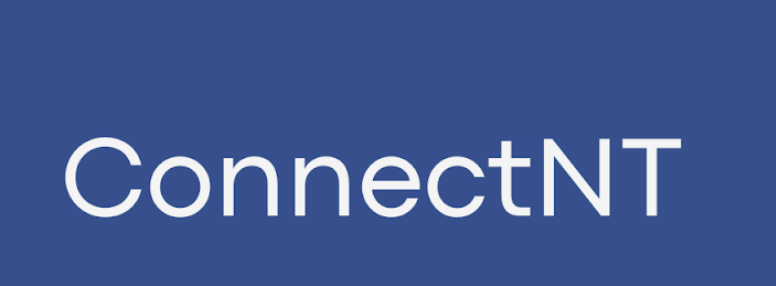
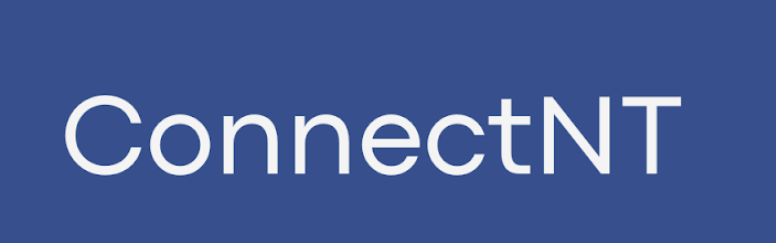
modify: ratios for images

diff --git a/portfolio-website/src/app/personal-projects/personal-projects.component.html b/portfolio-website/src/app/personal-projects/personal-projects.component.html
@@ -9,11 +9,11 @@
         <div class="col">
             <div class="card">
                 <div class="ratio ratio-1x1">
-                    <img src="assets\pics\pie_chart.png" alt="Pie Chart Image" class="card-img-top ratio ratio-1x1">
+                    <img src="assets\pics\pie_chart.png" alt="Pie Chart Image" class="card-img-top ratio ratio-4x3">
                 </div>
                 <div class="card-body">
-                    <span class="badge text-bg-secondary mb-2 me-2">IT Code Fair 2024</span>
-                    <span class="badge text-bg-secondary mb-2 me-2">Northern Territory</span>
+                    <span class="badge text-bg-secondary mb-1 me-1">IT Code Fair 2024</span>
+                    <span class="badge text-bg-secondary mb-1 me-1">Northern Territory</span>
                     <h5 class="card-title">NT Crime Statistics Dashboard</h5>
                     <p class="card-text">
                         A comprehensive Power BI dashboard analyzing crime data from the Northern Territory Police Force. 
@@ -33,12 +33,12 @@
         <!-- Connect NT -->
         <div class="col">
             <div class="card">
-                <div class="ratio ratio-1x1">
+                <div class="ratio ratio-16x9">
                     <img src="assets\pics\Connect_NT_GovHack2023.png" alt="Connect NT Image" class="card-img-top">
                 </div>
                 <div class="card-body">
-                    <span class="badge text-bg-secondary mb-2 me-2">GovHack 2023</span>
-                    <span class="badge text-bg-secondary mb-2 me-2">Northern Territory</span>
+                    <span class="badge text-bg-secondary mb-1 me-1">GovHack 2023</span>
+                    <span class="badge text-bg-secondary mb-1 me-1">Northern Territory</span>
                     <h5 class="card-title">Connect NT</h5>
                     <h6 class="card-subtitile">Using AI to better connect Northern Territory Science with the community</h6> 
                     <p class="card-text">
@@ -65,12 +65,12 @@
         </div>
         <div class="col">
             <div class="card">
-                <div class="ratio ratio-1x1">
+                <div class="ratio ratio-4x3">
                     <img src="assets\pics\NL to SQL.png" alt="Natural Language To SQL Graphic" class="card-img-top">
                 </div>
                 <div class="card-body">
-                    <span class="badge text-bg-secondary mb-2 me-2">Internship</span>
-                    <span class="badge text-bg-secondary mb-2 me-2">InterSystems</span>
+                    <span class="badge text-bg-secondary mb-1 me-1">Internship</span>
+                    <span class="badge text-bg-secondary mb-1 me-1">InterSystems</span>
                     <h5 class="card-title">Natural Language to SQL</h5>
                     <h6 class="card-subtitle">Text-to-SQL queries using GPT-4 and pre-prompting techniques</h6>
                     <p class="card-text">Users can type in natural language and get fairly accurate SQL queries in response. 
@@ -94,12 +94,12 @@
         </div>
         <div class="col">
             <div class="card">
-                <div class="ratio ratio-1x1">
+                <div class="ratio ratio-16x9">
                     <img src="assets\pics\Telemedicare.png" alt="Telemedicare logo designed for project" class="card-img-top">
                 </div>
                 <div class="card-body">
-                    <span class="badge text-bg-secondary mb-2 me-2">IT Code Fair 2023</span>
-                    <span class="badge text-bg-secondary mb-2 me-2">Northern Territory</span>
+                    <span class="badge text-bg-secondary mb-1 me-1">IT Code Fair 2023</span>
+                    <span class="badge text-bg-secondary mb-1 me-1">Northern Territory</span>
                     <h5 class="card-title">TeleMediCare</h5>
                     <h6 class="card-subtitle">A platform designed for virtual care in the NT</h6>
                     <p class="card-text">n the Northern Territory (NT), the ratio of General Practitioners to the population is 94 per 100,000 people, 
@@ -127,15 +127,15 @@
         </div>
         <div class="col">
             <div class="card">
-                <div class="ratio ratio-1x1">
+                <div class="ratio ratio-4x3">
                     <img src="assets\pics\Thesis project.png" alt="Thesis poster image" class="card-img-top">
                 </div>
                 <div class="card-body">
-                    <span class="badge text-bg-secondary mb-2 me-2">IT Code Fair 2023</span>
-                    <span class="badge text-bg-secondary mb-2 me-2">Northern Territory</span>
-                    <span class="badge text-bg-secondary mb-2 me-2">Poster Competition</span>
-                    <span class="badge text-bg-secondary mb-2 me-2">Research Competition</span>
-                    <span class="badge text-bg-secondary mb-2 me-2">Machine Learning</span>
+                    <span class="badge text-bg-secondary mb-1 me-1">IT Code Fair 2023</span>
+                    <span class="badge text-bg-secondary mb-1 me-1">Northern Territory</span>
+                    <span class="badge text-bg-secondary mb-1 me-1">Poster Competition</span>
+                    <span class="badge text-bg-secondary mb-1 me-1">Research Competition</span>
+                    <span class="badge text-bg-secondary mb-1 me-1">Machine Learning</span>
                     <h5 class="card-title">Thesis Project</h5>
                     <h6 class="card-subtitle">Can Machine Learning Predict Sheep Age to Enhance Business Value?</h6>
                     <p class="card-text">The age of livestock is a silent but significant force that affects the livelihood of countless 
@@ -163,10 +163,12 @@
         </div>
         <div class="col">
             <div class="card">
-                <img src="assets\pics\Doctor's Notes.png" alt="Doctor's Notes concept image for the Doctor" class="card-img-top">
+                <div class="ratio ratio-1x1">
+                    <img src="assets\pics\Doctor's Notes.png" alt="Doctor's Notes concept image for the Doctor" class="card-img-top">
+                </div>
                 <div class="card-body">
-                    <span class="badge text-bg-secondary mb-2 me-2">Game Dev</span>
-                    <span class="badge text-bg-secondary mb-2 me-2">Bachelors</span>
+                    <span class="badge text-bg-secondary mb-1 me-1">Game Dev</span>
+                    <span class="badge text-bg-secondary mb-1 me-1">Bachelors</span>
                     <h5 class="card-title">Doctor's Notes</h5>
                     <h6 class="card-subtitle">A bleak crafting game about death.</h6>
                     <p class="card-text">Play as a series of doctors during a plague in a decaying fantasy world. 
@@ -183,10 +185,12 @@
         </div>
         <div class="col">
             <div class="card">
+                <div class="ratio ratio-4x3">
                     <img src="assets\pics\Notifications to MS Teams.png" alt="Notifications to MS Teams graphic" class="card-img-top">
+                </div>
                     <div class="card-body">
-                        <span class="badge text-bg-secondary mb-2 me-2">Internship</span>
-                        <span class="badge text-bg-secondary mb-2 me-2">InterSystems</span>
+                        <span class="badge text-bg-secondary mb-1 me-1">Internship</span>
+                        <span class="badge text-bg-secondary mb-1 me-1">InterSystems</span>
                         <h5 class="card-title">Notifications to MS Teams</h5>
                         <h6 class="card-subtitle">ObjectScript Application for Health care providers</h6>
                     </div>
@@ -195,8 +199,8 @@
             <div class="col">
                 <div class="card">
                     <div class="card-body">
-                        <span class="badge text-bg-secondary mb-2 me-2">Web Dev</span>
-                        <span class="badge text-bg-secondary mb-2 me-2">Bachelors</span>
+                        <span class="badge text-bg-secondary mb-1 me-1">Web Dev</span>
+                        <span class="badge text-bg-secondary mb-1 me-1">Bachelors</span>
                         <h5 class="card-title">Universal</h5>
                         <h6 class="card-subtitle">Website built with NASA API and Vue.js</h6>
                         <p class="card-text">Play as a series of doctors during a plague in a decaying fantasy world. 
@@ -214,8 +218,8 @@
             <div class="col">
                 <div class="card">
                     <div class="card-body">
-                        <span class="badge text-bg-secondary mb-2 me-2">C++</span>
-                        <span class="badge text-bg-secondary mb-2 me-2">Bachelors</span>
+                        <span class="badge text-bg-secondary mb-1 me-1">C++</span>
+                        <span class="badge text-bg-secondary mb-1 me-1">Bachelors</span>
                         <h5 class="card-title">Zorkish</h5>
                         <h6 class="card-subtitle">Text based CLI game in C++</h6>
                         <a 
